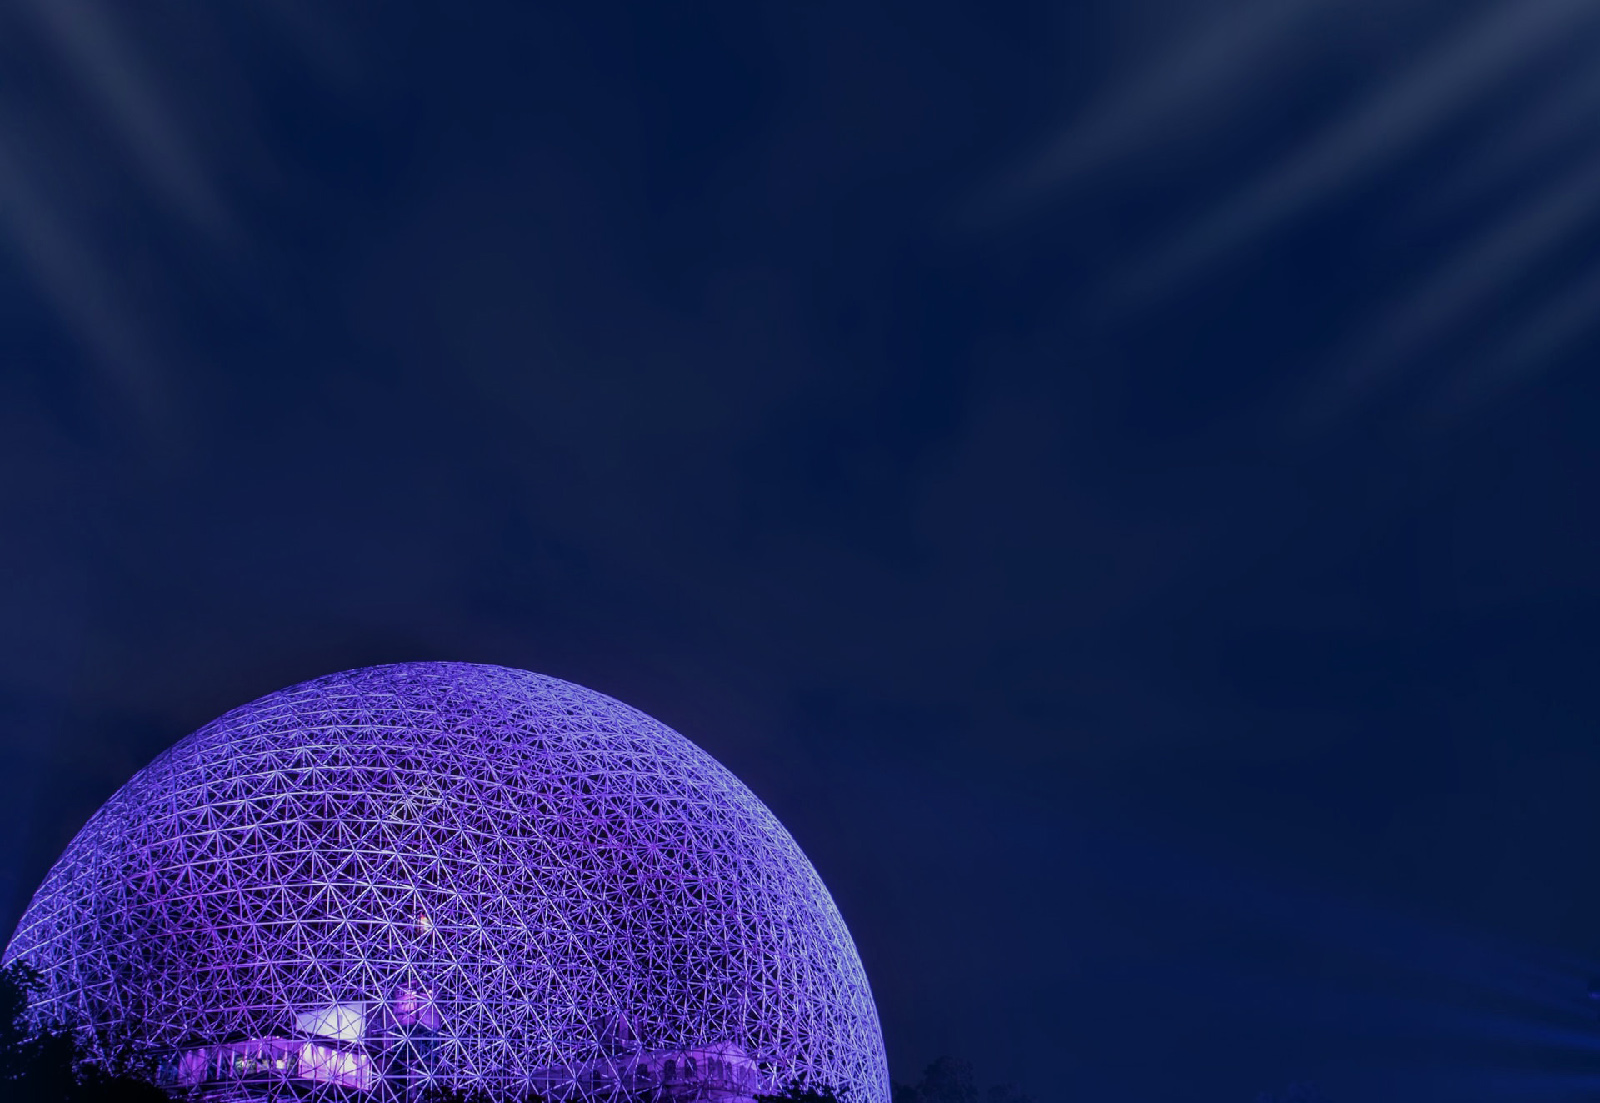
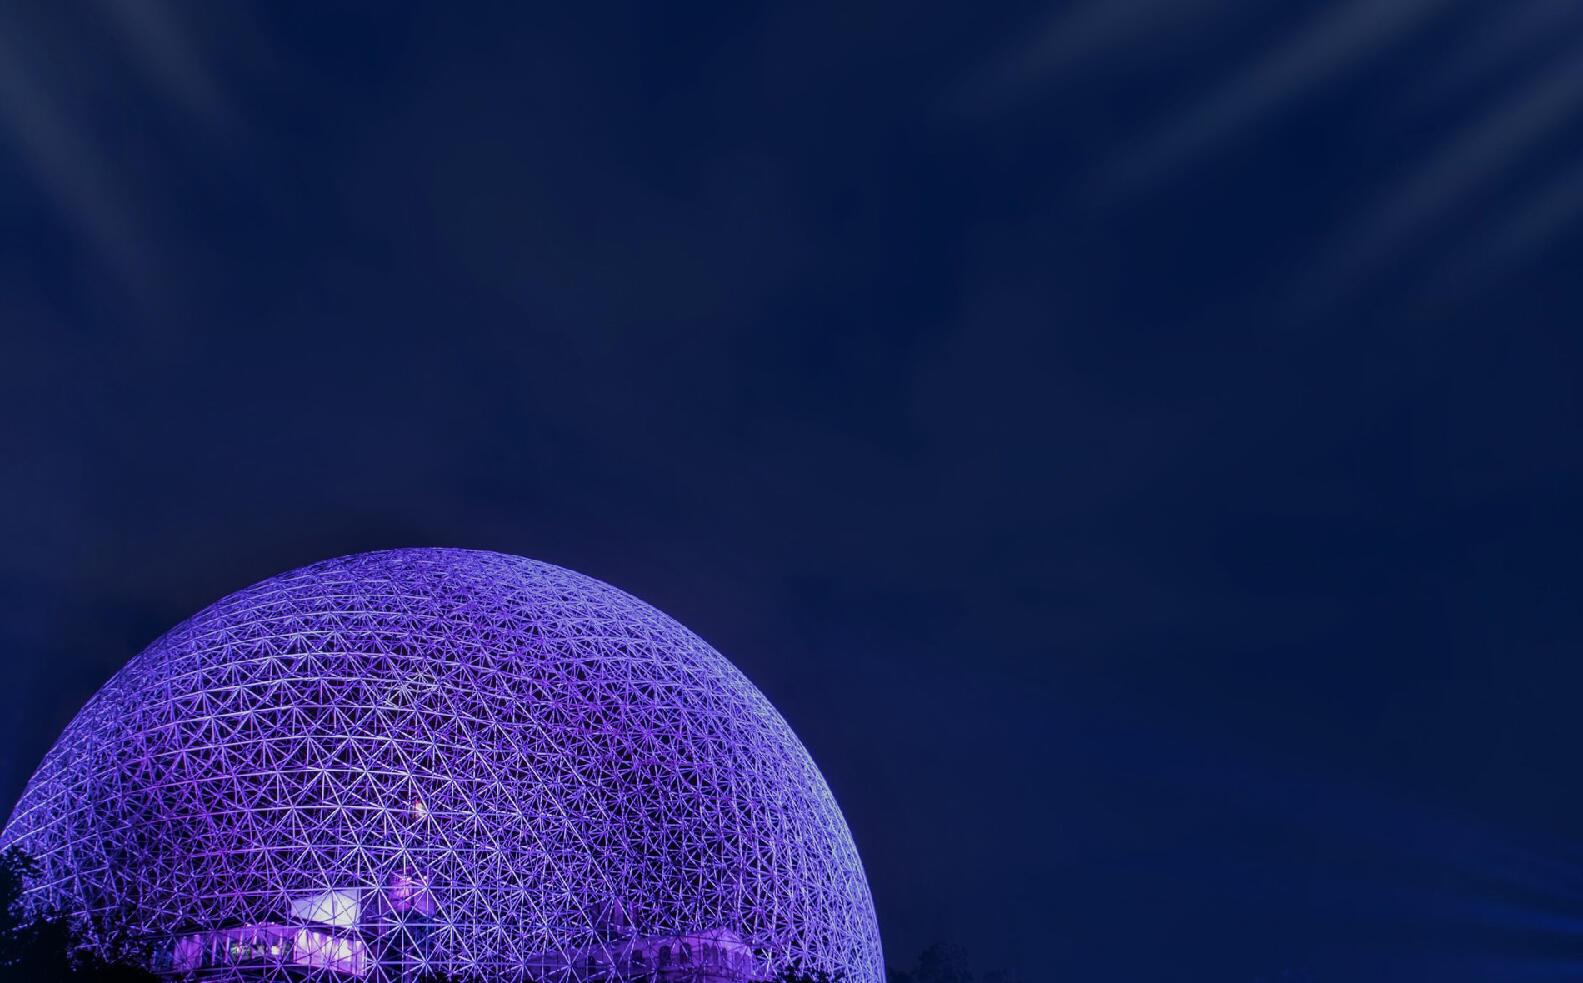
shorter home

diff --git a/_includes/page_header_static.html b/_includes/page_header_static.html
@@ -4,7 +4,8 @@
   opacity: 0.9;
   background-size: cover;
   background-repeat: no-repeat;
-  overflow: hidden;">
+  overflow: hidden;
+  max-height: 976px;">
 
   <div class="container">
     <div class="row">

diff --git a/_layouts/portfolio.html b/_layouts/portfolio.html
@@ -13,6 +13,7 @@ layout: default
 	background-repeat: no-repeat;
 	overflow: hidden;
 	opacity: 0.9;
+	max-height: 976px;
 	">
 
 	<div class="container">

diff --git a/_includes/hero_area_2.html b/_includes/hero_area_2.html
@@ -9,6 +9,7 @@
 	background-repeat: no-repeat;
 	overflow: hidden;
 	opacity: 0.9;
+	max-height: 976px;
 	">
 
 	<div class="container">

diff --git a/_portfolios/supply-chain.md b/_portfolios/supply-chain.md
@@ -1,9 +1,9 @@
 ---
 layout: portfolio
-title: "Supply Chain"
+title: "Supply <br /> Chain"
 categories: ["supply-chain"]
 thumbnail: "/assets/images/portfolio/supply-portfolio.jpg"
-description: "Sales and supply chain analytics for <br />medical products in new markets"
+description: "Sales and supply chain analytics <br /> for medical products in new markets"
 ---
 
 <div class="row">
